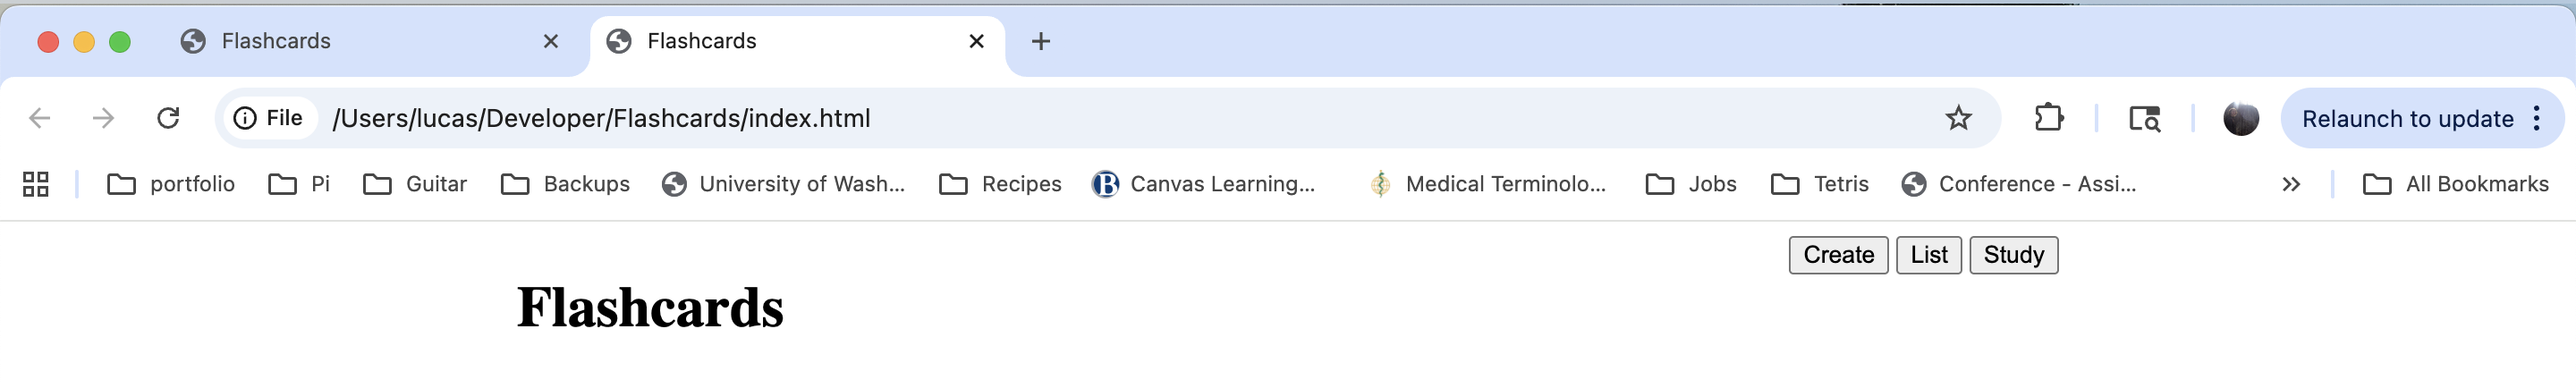
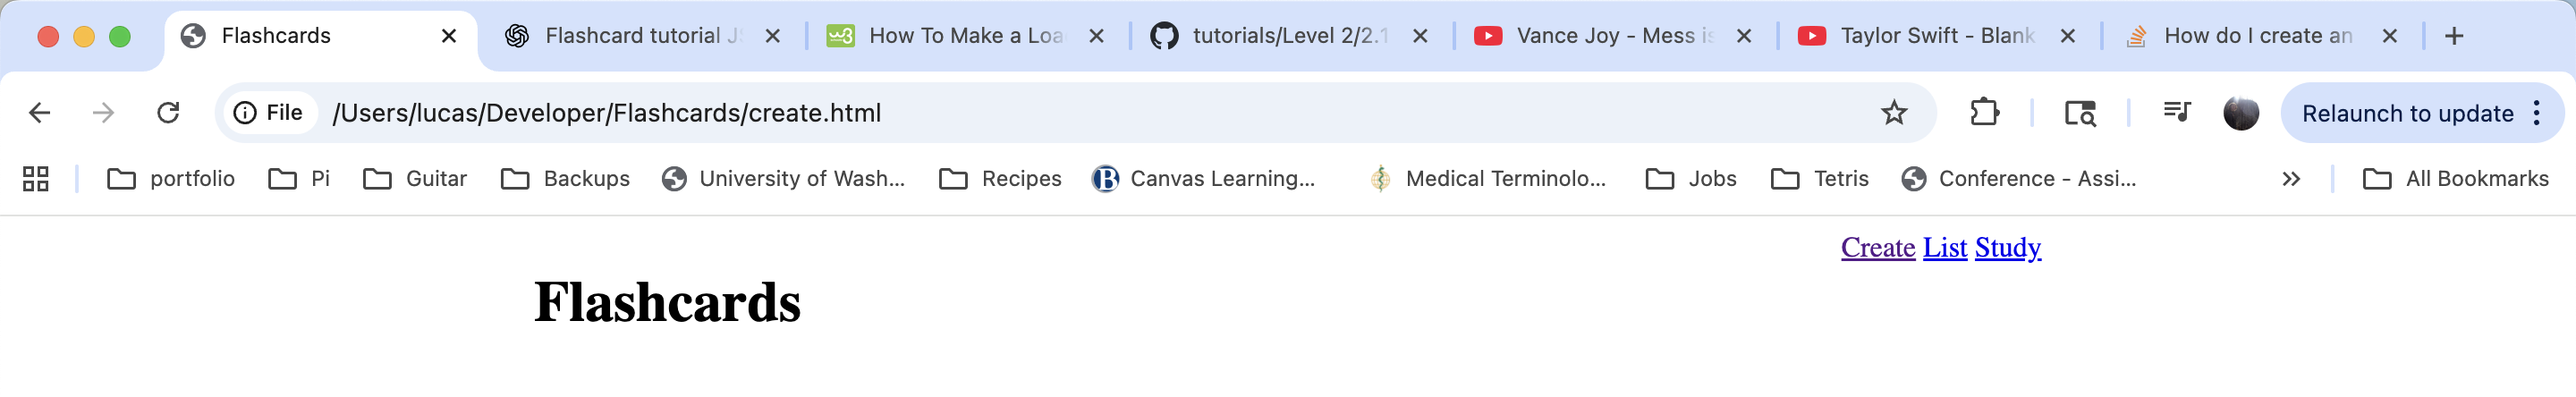
Switch buttons to links

diff --git a/Level 2/2.1 Flashcard app basic setup.md b/Level 2/2.1 Flashcard app basic setup.md
@@ -1,4 +1,4 @@
-First we will make an index file to place our app in. Call this file index.html and let's start with the code that vs code autofills when you type !.
+First we will make an index file to place our app in. Call this file ```index.html``` and let's start with the code that vs code autofills when you type !.
 ```
 <!DOCTYPE html>
 <html lang="en">
@@ -19,9 +19,9 @@ Now lets change the document title to ```Flashcards```. We will also add a nav b
     <header>
         <h1>Flashcards</h1>
         <nav>
-            <button data-view="create">Create</button>
-            <button data-view="list">List</button>
-            <button data-view="study">Study</button>
+            <a href="./create.html">Create</a>
+            <a href="./index.html">List</a>
+            <a href="./study.html">Study</a>
         </nav>
     </header>
 </body>
@@ -149,19 +149,4 @@ nav button {
 ```
 Now take a step back and admire your work.
 
-Next, let's create an ```app.js``` file and while we are at it lets add the following to our ```index.html```:
-
-```
-</header>
-
-<main id="app">
-    <!-- Content will be loaded here -->
-  </main>
-
-  <script src="app.js"></script>
-</body>
-```
-
-The first and last lines should already be in the file just find were the rest goes.
-
-Now let's add to our ```app.js``` file.
+Now let's make our other pages. Simply copy the pages by right clicking
